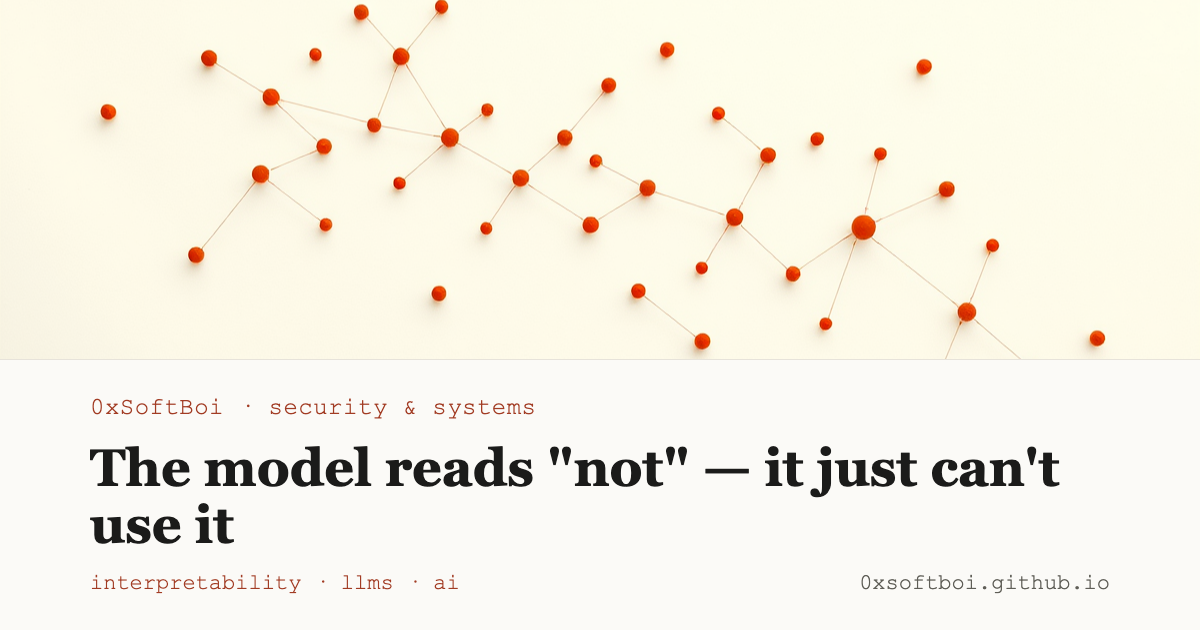
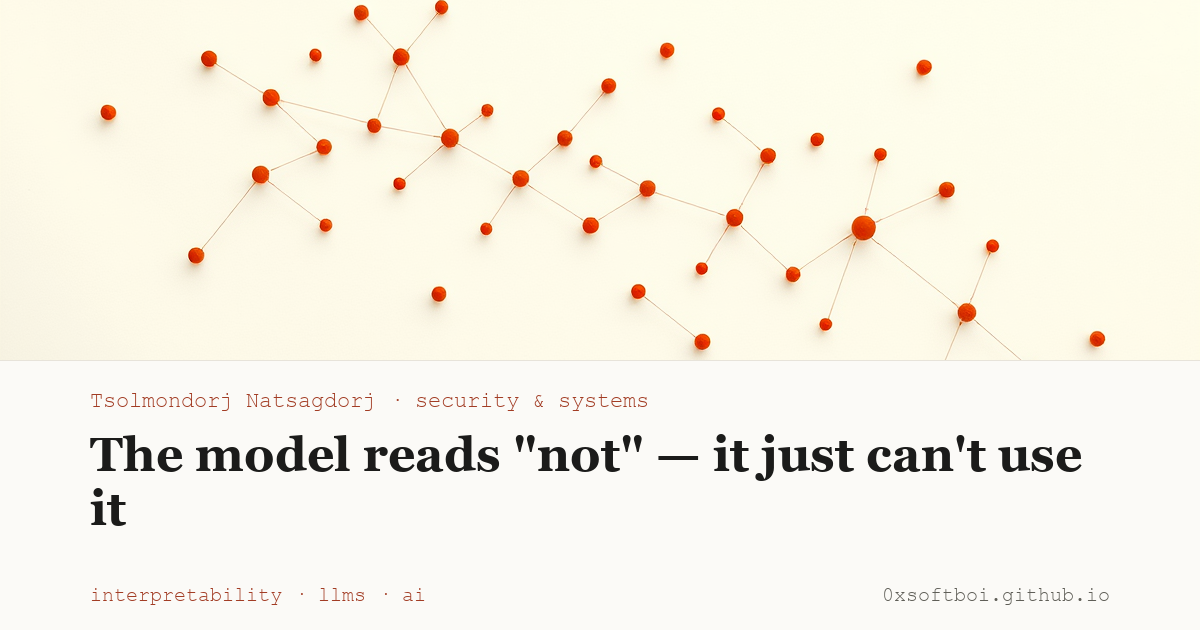
Rename to Tsolmondorj Natsagdorj + agent/SEO optimization
- Display name -> "Tsolmondorj Natsagdorj" across site (identifiers/URLs/handle
  stay 0xSoftBoi; intro keeps "(0xSoftBoi)"; JSON-LD alternateName)
- Entity graph: WebSite + Person (@id), every post authored by that Person;
  enriched BlogPosting (description, keywords, articleSection, image)
- Person schema: description, knowsAbout, sameAs (LinkedIn, ORCID, HF)
- llms.txt for AI crawlers; FAQPage on /about; robots.txt welcomes AI bots
- Rebuilt all OG cards with the new name via a deterministic Pillow compositor
  (recomposite_og.py) after the Chrome path raced and scrambled cards

diff --git a/about.html b/about.html
@@ -1,12 +1,12 @@
 ---
 layout: default
-title: "About — 0xSoftBoi"
+title: "About — Tsolmondorj Natsagdorj"
 permalink: /about/
 ---
 
 <section class="about">
   <h1>About</h1>
-  <p class="lede">I'm 0xSoftBoi, an engineer working where cross-chain infrastructure, smart-contract security, and AI agents meet. I build bridges, audit them, and write the agents that trade across them.</p>
+  <p class="lede">I'm Tsolmondorj Natsagdorj, an engineer working where cross-chain infrastructure, smart-contract security, and AI agents meet. I build bridges, audit them, and write the agents that trade across them.</p>
 
   <h2>Now</h2>
   <p>I run <strong>Zero 1 Labs</strong>, a personal holding company for my ventures and research. Its flagship is <a href="https://suwappu.bot" target="_blank" rel="noopener noreferrer">Suwappu</a> — an agent-native cross-chain DEX with a post-quantum bridge I designed and audited end-to-end. The custody layer is gated by on-chain attestations (ML-DSA-65 on the home chain); I proved the supply and double-spend invariants with Foundry stateful fuzzing, Slither and Halmos, and shipped every fix with a revert-fails regression so the test goes red again if the fix is removed.</p>
@@ -22,5 +22,13 @@ permalink: /about/
   <p>I co-founded <strong>Blockchain at Mason</strong> (2016–2017), a student-run, faculty-supported organization I grew to 90+ members; we helped launch one of the first university blockchain minor programs in the US. I studied Economics &amp; Computer Science at George Mason University, leaving in 2017 to work on this full-time.</p>
 
   <h2>Elsewhere</h2>
-  <p class="quiet"><a href="https://github.com/0xSoftBoi" target="_blank" rel="noopener noreferrer">github</a> · <a href="https://twitter.com/0xSoftBoi" target="_blank" rel="noopener noreferrer">x</a> · <a href="https://suwappu.bot" target="_blank" rel="noopener noreferrer">suwappu.bot</a> · languages: English, Mongolian</p>
+  <p class="quiet"><a href="https://github.com/0xSoftBoi" target="_blank" rel="noopener noreferrer">github</a> · <a href="https://twitter.com/0xSoftBoi" target="_blank" rel="noopener noreferrer">x</a> · <a href="https://www.linkedin.com/in/tsolmondorj" target="_blank" rel="noopener noreferrer">linkedin</a> · <a href="https://orcid.org/0009-0009-6010-6273" target="_blank" rel="noopener noreferrer">orcid</a> · <a href="https://suwappu.bot" target="_blank" rel="noopener noreferrer">suwappu.bot</a> · languages: English, Mongolian</p>
 </section>
+
+<script type="application/ld+json">
+{"@context":"https://schema.org","@type":"FAQPage","mainEntity":[
+{"@type":"Question","name":"Who is Tsolmondorj Natsagdorj?","acceptedAnswer":{"@type":"Answer","text":"Tsolmondorj Natsagdorj (online: 0xSoftBoi) is a security and systems engineer working on cross-chain infrastructure and smart-contract security, in Rust and the EVM."}},
+{"@type":"Question","name":"What has Tsolmondorj Natsagdorj contributed to?","acceptedAnswer":{"@type":"Answer","text":"Merged upstream contributions to alloy (EIP-712 dyn-abi canonicalization, the Rust library behind Foundry and Reth) and uutils/coreutils (date timezone handling); an end-to-end audited lock-and-mint bridge; and BRIDGE-bench, a benchmark of LLM reasoning against real DeFi exploits."}},
+{"@type":"Question","name":"What is Tsolmondorj Natsagdorj building now?","acceptedAnswer":{"@type":"Answer","text":"Suwappu, an agent-native cross-chain DEX."}}
+]}
+</script>

diff --git a/_layouts/default.html b/_layouts/default.html
@@ -15,13 +15,32 @@
   <script type="application/ld+json">
   {
     "@context": "https://schema.org",
+    "@graph": [
+    {
+      "@type": "WebSite",
+      "@id": "https://0xsoftboi.github.io/#website",
+      "url": "https://0xsoftboi.github.io",
+      "name": "Tsolmondorj Natsagdorj",
+      "inLanguage": "en",
+      "publisher": { "@id": "https://0xsoftboi.github.io/#person" }
+    },
+    {
     "@type": "Person",
-    "name": "0xSoftBoi",
+    "@id": "https://0xsoftboi.github.io/#person",
+    "name": "Tsolmondorj Natsagdorj",
+    "alternateName": "0xSoftBoi",
     "url": "https://0xsoftboi.github.io",
     "jobTitle": "Security & Systems Engineer",
+    "description": "Tsolmondorj Natsagdorj (0xSoftBoi) is a security and systems engineer working on cross-chain infrastructure and smart-contract security, with merged contributions to alloy and uutils/coreutils.",
+    "knowsAbout": ["Smart contract security", "Cross-chain bridges", "Ethereum", "Rust", "Zero-knowledge proofs", "DeFi", "Formal verification", "MEV", "Solidity", "Foundry"],
     "sameAs": [
       "https://github.com/0xSoftBoi",
-      "https://twitter.com/0xSoftBoi"
+      "https://twitter.com/0xSoftBoi",
+      "https://www.linkedin.com/in/tsolmondorj",
+      "https://orcid.org/0009-0009-6010-6273",
+      "https://huggingface.co/0xsoftboi"
+    ]
+    }
     ]
   }
   </script>
@@ -30,7 +49,7 @@
   <a class="skip" href="#main">skip to content</a>
   <header class="site-header">
     <nav class="nav">
-      <a class="brand" href="{{ '/' | relative_url }}">0xSoftBoi</a>
+      <a class="brand" href="{{ '/' | relative_url }}">Tsolmondorj Natsagdorj</a>
       <div class="nav-links">
         <a href="{{ '/' | relative_url }}">writing</a>
         <a href="{{ '/series/' | relative_url }}">series</a>
@@ -49,7 +68,7 @@
   </main>
 
   <footer class="site-footer">
-    <span>© {{ site.time | date: "%Y" }} 0xSoftBoi</span>
+    <span>© {{ site.time | date: "%Y" }} Tsolmondorj Natsagdorj</span>
     <span><a href="{{ '/feed.xml' | relative_url }}">rss</a></span>
     <span><a href="https://suwappu.bot" target="_blank" rel="noopener noreferrer">suwappu.bot</a></span>
   </footer>

diff --git a/_layouts/post.html b/_layouts/post.html
@@ -6,14 +6,17 @@ layout: default
   "@context": "https://schema.org",
   "@type": "BlogPosting",
   "headline": {{ page.title | jsonify }},
+  "description": {{ page.excerpt | strip_html | strip_newlines | jsonify }},
   "datePublished": "{{ page.date | date_to_xmlschema }}",
+  "dateModified": "{{ page.date | date_to_xmlschema }}",
   "url": "{{ page.url | absolute_url }}",
   "mainEntityOfPage": "{{ page.url | absolute_url }}",
-  "author": {
-    "@type": "Person",
-    "name": "0xSoftBoi",
-    "url": "https://0xsoftboi.github.io"
-  }
+  "inLanguage": "en",
+  {% if page.image %}"image": "{{ page.image | absolute_url }}",{% endif %}
+  {% if page.series %}"articleSection": {{ page.series | jsonify }},{% endif %}
+  {% if page.tags %}"keywords": {{ page.tags | join: ", " | jsonify }},{% endif %}
+  "author": { "@id": "https://0xsoftboi.github.io/#person" },
+  "publisher": { "@id": "https://0xsoftboi.github.io/#person" }
 }
 </script>
 <article class="post">

diff --git a/index.html b/index.html
@@ -1,13 +1,13 @@
 ---
 layout: default
-title: "0xSoftBoi — security & systems"
+title: "Tsolmondorj Natsagdorj — security & systems"
 ---
 
 <img class="hero" src="{{ '/assets/art/home-hero.png' | relative_url }}" alt="">
 
 <section class="intro">
-  <h1 class="visually-hidden">0xSoftBoi — security &amp; systems</h1>
-  <p class="lede">I'm <strong>0xSoftBoi</strong>. I work on cross-chain infrastructure, smart-contract security, and the machine learning pointed at both — and I'm partial to the one accounting bug that lets a bridge print money.</p>
+  <h1 class="visually-hidden">Tsolmondorj Natsagdorj — security &amp; systems</h1>
+  <p class="lede">I'm <strong>Tsolmondorj Natsagdorj</strong> (0xSoftBoi). I work on cross-chain infrastructure, smart-contract security, and the machine learning pointed at both — and I'm partial to the one accounting bug that lets a bridge print money.</p>
 </section>
 
 <section class="writing">

diff --git a/404.html b/404.html
@@ -1,6 +1,6 @@
 ---
 layout: default
-title: "Not found — 0xSoftBoi"
+title: "Not found — Tsolmondorj Natsagdorj"
 permalink: /404.html
 ---
 

diff --git a/research.html b/research.html
@@ -1,6 +1,6 @@
 ---
 layout: default
-title: "Research — 0xSoftBoi"
+title: "Research — Tsolmondorj Natsagdorj"
 permalink: /research/
 ---
 

diff --git a/security.html b/security.html
@@ -1,6 +1,6 @@
 ---
 layout: default
-title: "Security — 0xSoftBoi"
+title: "Security — Tsolmondorj Natsagdorj"
 permalink: /security/
 ---
 

diff --git a/blog.html b/blog.html
@@ -1,6 +1,6 @@
 ---
 layout: default
-title: "Writing — 0xSoftBoi"
+title: "Writing — Tsolmondorj Natsagdorj"
 permalink: /blog/
 ---
 

diff --git a/series.html b/series.html
@@ -1,6 +1,6 @@
 ---
 layout: default
-title: "Series — 0xSoftBoi"
+title: "Series — Tsolmondorj Natsagdorj"
 permalink: /series/
 ---
 

diff --git a/tags.html b/tags.html
@@ -1,6 +1,6 @@
 ---
 layout: default
-title: "Tags — 0xSoftBoi"
+title: "Tags — Tsolmondorj Natsagdorj"
 permalink: /tags/
 ---
 

diff --git a/_charts/recomposite_og.py b/_charts/recomposite_og.py
@@ -1,0 +1,76 @@
+#!/usr/bin/env python3
+"""Deterministic OG-card compositor (Pillow, no browser).
+
+Rebuilds assets/og/<slug>.png from the intact per-post hero art
+(assets/art/posts/<slug>.png) + the post's real title/tags. Reliable and
+race-free — the Chrome-screenshot path in gen_post_art can corrupt cards when
+run concurrently (shared temp file). Use this to (re)stamp the name line.
+
+RUN:  python3 _charts/recomposite_og.py
+"""
+import os, re, glob, sys
+from PIL import Image, ImageDraw, ImageFont
+sys.path.insert(0, os.path.dirname(os.path.abspath(__file__)))
+import gen_post_art as g
+
+ROOT = g.ROOT
+OG = g.OG
+HEROES = os.path.join(ROOT, "assets", "art", "posts")
+W, H, ART_H, PADX = 1200, 630, 360, 90
+BG, INK, ACCENT, MUTED, RULE = (251,250,247), (27,27,26), (162,60,36), (95,94,87), (231,227,218)
+MARK = "Tsolmondorj Natsagdorj · security & systems"
+
+GEORGIA = "/System/Library/Fonts/Supplemental/Georgia.ttf"
+GEORGIA_B = "/System/Library/Fonts/Supplemental/Georgia Bold.ttf"
+MONO = "/System/Library/Fonts/Supplemental/Courier New.ttf"
+TITLE_FONT = GEORGIA_B if os.path.exists(GEORGIA_B) else GEORGIA
+
+def f(path, size): return ImageFont.truetype(path, size)
+def title_size(t):
+    n = len(t)
+    return 56 if n <= 38 else 48 if n <= 58 else 42 if n <= 80 else 36
+
+def wrap(draw, text, font, maxw):
+    words, lines, cur = text.split(), [], ""
+    for w in words:
+        t = (cur + " " + w).strip()
+        if draw.textlength(t, font=font) <= maxw: cur = t
+        else: lines.append(cur); cur = w
+    if cur: lines.append(cur)
+    return lines
+
+def cover(img, tw, th):
+    iw, ih = img.size
+    s = max(tw/iw, th/ih)
+    img = img.resize((round(iw*s), round(ih*s)), Image.LANCZOS)
+    iw, ih = img.size
+    l, t = (iw-tw)//2, (ih-th)//2
+    return img.crop((l, t, l+tw, t+th))
+
+def build(slug, title, tags_line):
+    card = Image.new("RGB", (W, H), BG)
+    hero_path = os.path.join(HEROES, slug + ".png")
+    card.paste(cover(Image.open(hero_path).convert("RGB"), W, ART_H), (0, 0))
+    d = ImageDraw.Draw(card)
+    d.line([(0, ART_H), (W, ART_H)], fill=RULE, width=1)
+    d.text((PADX, ART_H+28), MARK, font=f(MONO, 22), fill=ACCENT)
+    fs = title_size(title)
+    tf = f(TITLE_FONT, fs)
+    y = ART_H + 66
+    for line in wrap(d, title, tf, W-2*PADX):
+        d.text((PADX, y), line, font=tf, fill=INK); y += int(fs*1.14)
+    rowf = f(MONO, 20)
+    d.text((PADX, H-46), tags_line, font=rowf, fill=ACCENT)
+    url = "0xsoftboi.github.io"
+    d.text((W-PADX-d.textlength(url, font=rowf), H-46), url, font=rowf, fill=MUTED)
+    card.save(os.path.join(OG, slug + ".png"))
+
+n = 0
+for md in sorted(glob.glob(os.path.join(ROOT, "_posts", "*.md"))):
+    slug = re.sub(r"^\d{4}-\d{2}-\d{2}-", "", os.path.basename(md))[:-3]
+    if not os.path.exists(os.path.join(HEROES, slug + ".png")):
+        print("skip (no hero):", slug); continue
+    fm = g.front_matter(open(md).read())
+    build(slug, fm.get("title", slug), " · ".join(fm.get("tags", [])[:4]))
+    n += 1
+print(f"rebuilt {n} OG cards (Pillow)")

diff --git a/_charts/gen_post_art.py b/_charts/gen_post_art.py
@@ -86,7 +86,7 @@ html,body{{width:1200px;height:630px;background:{BG};overflow:hidden}}
 </style></head><body><div class="card">
 <div class="art"></div>
 <div class="txt">
-  <div class="mark">0xSoftBoi &middot; security &amp; systems</div>
+  <div class="mark">Tsolmondorj Natsagdorj &middot; security &amp; systems</div>
   <div class="title">{html.escape(title)}</div>
   <div class="row"><span class="tags">{html.escape(tags_line)}</span><span>0xsoftboi.github.io</span></div>
 </div></div></body></html>"""
